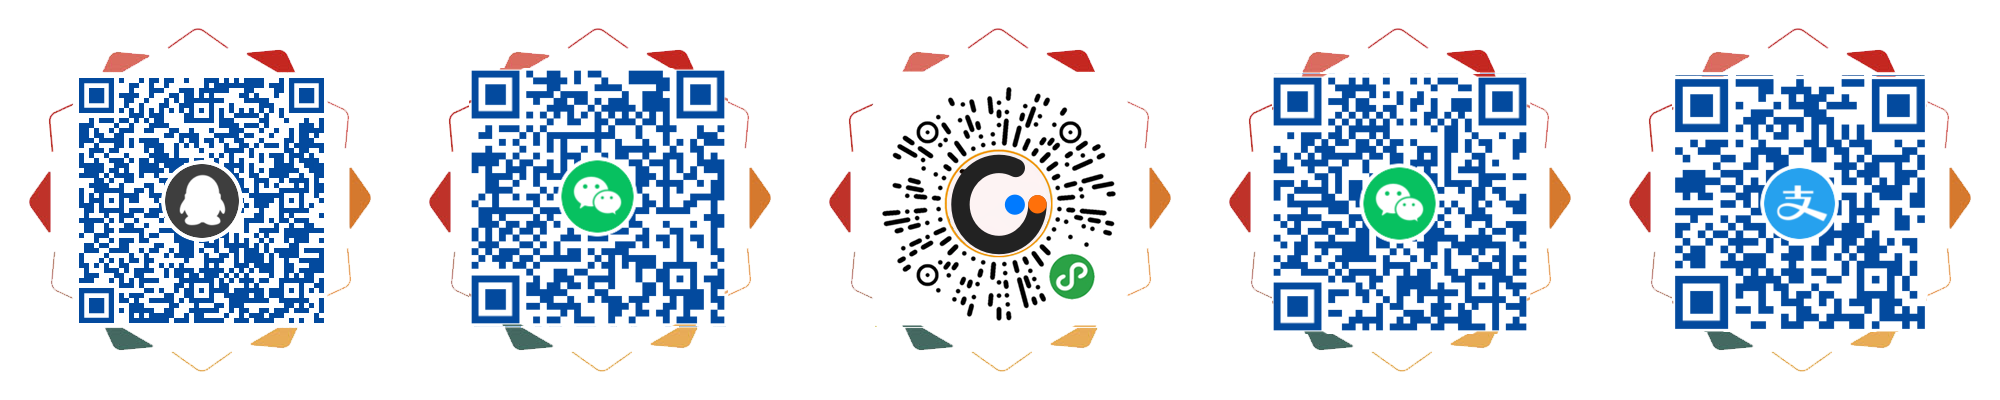
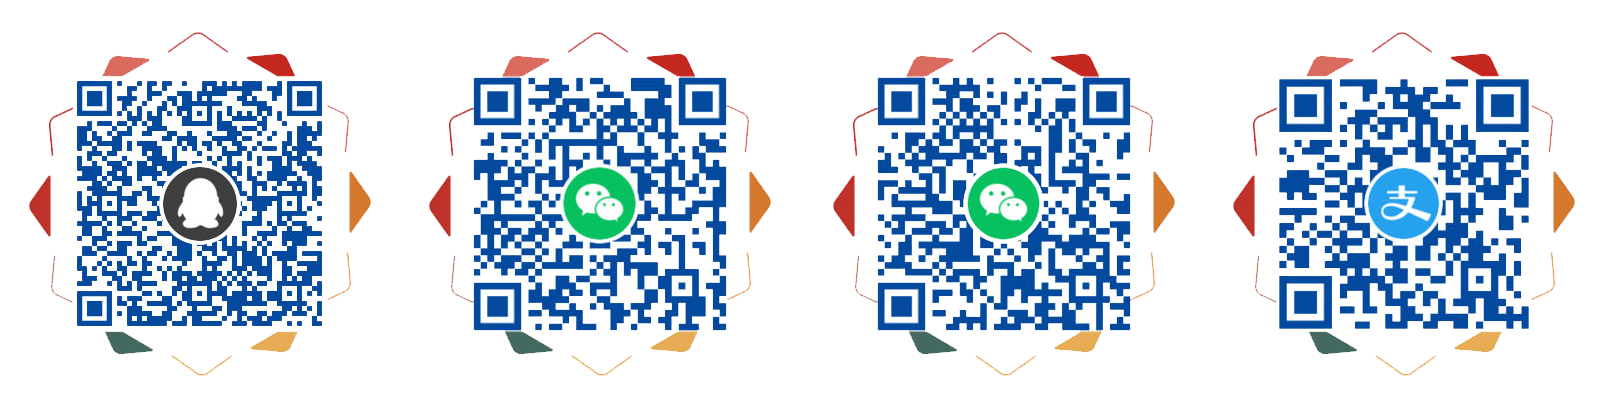
update

diff --git a/README_en.md b/README_en.md
@@ -129,9 +129,9 @@ int main(int argc, char* argv[]) {
 
 ![](img/allinone.png)
 
-||||||
-|--|--|--|--|--|
-|Add QQ Friends|Add WeChat Friends|Paid Questions|WeChat Sponsor|Alipay Sponsor|
+|||||
+|--|--|--|--|
+|Add QQ Friends|Add WeChat Friends|WeChat Sponsor|Alipay Sponsor|
 
 
 

diff --git a/README.md b/README.md
@@ -130,9 +130,9 @@ int main(int argc, char* argv[]) {
 
 ![](img/allinone.png)
 
-||||||
-|--|--|--|--|--|
-|加QQ好友|加微信好友|扫码提问|微信打赏|支付宝打赏|
+|||||
+|--|--|--|--|
+|加QQ好友|加微信好友|微信打赏|支付宝打赏|
 
 
 
